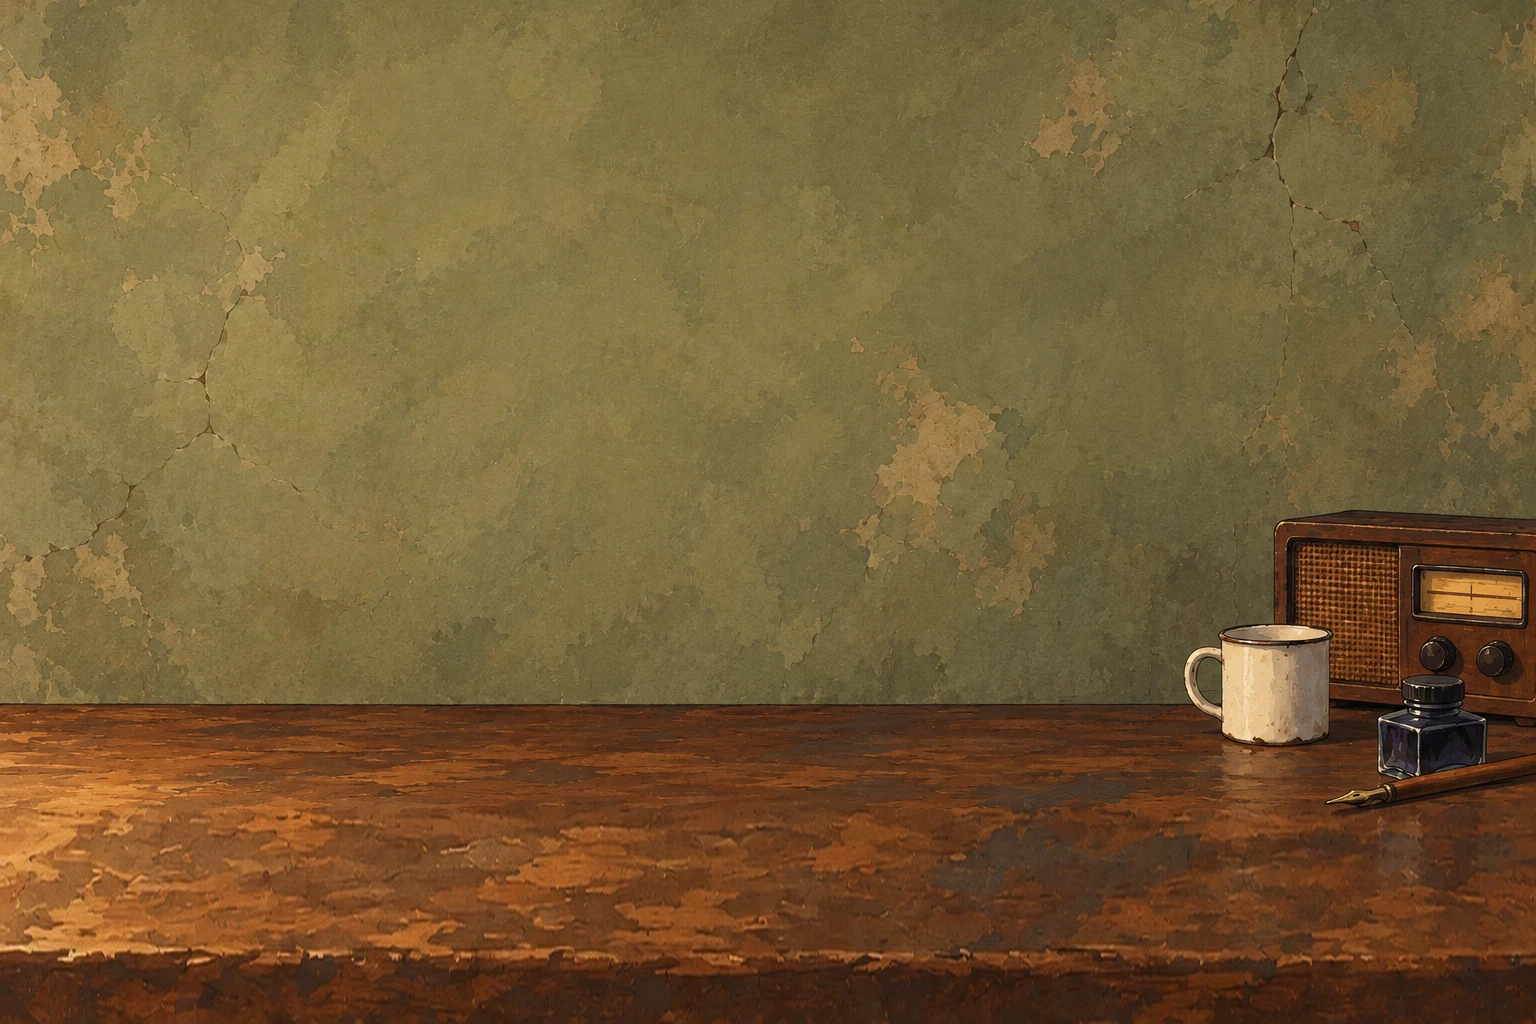
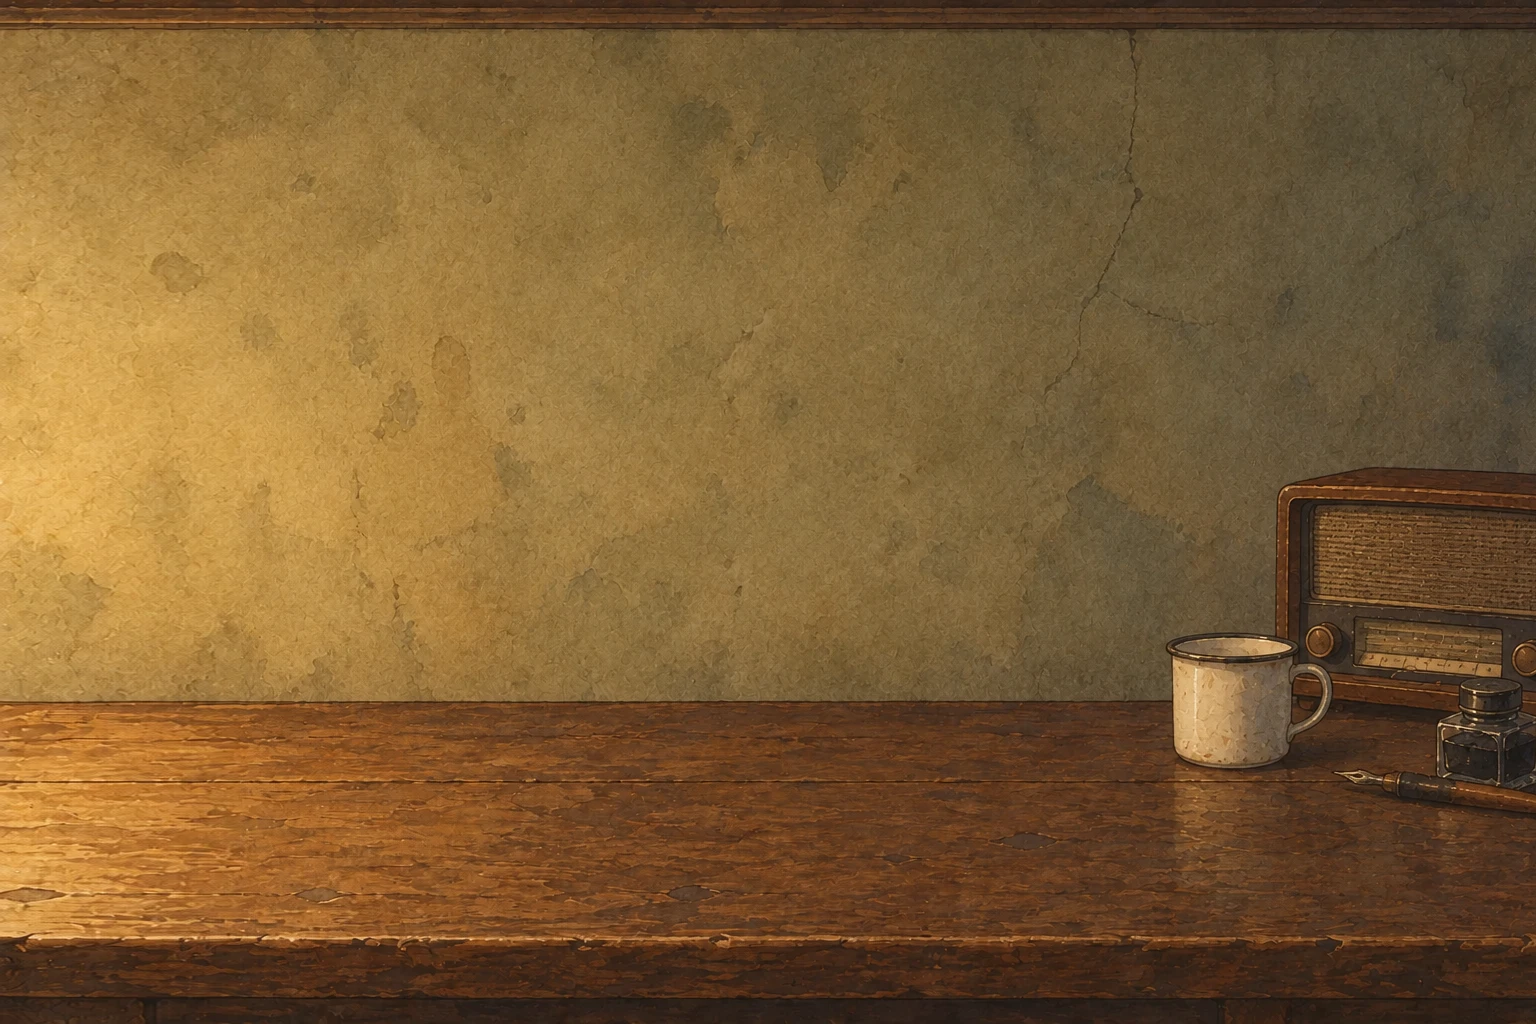
Use room-1950s v03 shifted right 80px
Claude-Session: https://claude.ai/code/session_01PsrXmJLcxyd21nqhscNtK1

diff --git a/docs/status.md b/docs/status.md
@@ -42,7 +42,7 @@
 - **진행 방식(2026-10-20 교사 요청):** 한 회차에 3장씩. Claude가 회차마다 프롬프트 3개를 코드 블록으로 채팅에 따로 정리해 주고, 교사가 ChatGPT로 그려 한꺼번에 보여 준다. 그림 하나에 프롬프트 하나는 그대로. 회차표는 `art-prompts.md` 0.4.
 - **짧은 프롬프트(2026-10-20 교사 요청):** 2회차부터 프롬프트를 짧게 준다. `[화풍 고정 v1]`은 ChatGPT 프로젝트 지침에만 두고 프롬프트에는 참조 한 줄. 제목 옆에 저장할 영어 파일 이름을 쓴다. 규칙은 `art-prompts.md` 0.5, 짧은 판은 8장.
 - **1·2회차 결과(2026-10-20, 교사가 깃허브에 직접 올림):** ⑦ 3장 창밖, ⑧ 3장 표지(밝기 보정), ⑨ 종이 결, ⑪ 1980년대 방(위로 28px) 통과. ⑩ 1950년대 방(책상 너무 높음)과 ⑫ 지금의 방(사진처럼 매끈함)은 다시 그린다. 자세한 기록은 `art-src/README.md`.
-- **⑩ 1950년대 방 v02(2026-10-20):** 이번에는 책상이 너무 낮게(y 820) 나와서 위로 120px 올려 통과.
+- **⑩ 1950년대 방(2026-10-20):** v03을 고름(책상 높이 맞음, 오른쪽으로 80px 옮김). v02는 책상이 너무 낮아 보관만 함.
 - **⑫ 지금의 방 v02(2026-10-20):** 손그림으로 나와 보정 없이 통과. 방 그림 4장 완료.
 - **다음:** 3~7회차. 짧은 프롬프트 전체는 `art-prompts.md` 8.2~8.7에 있다. 교사는 그림을 깃허브 `art-src/`에 올리고 Claude가 폴더 정리와 검수를 한다.
 - **작업 방식(2026-10-20 교사 요청):** 프롬프트 작업에는 워크플로(여러 에이전트 동시 실행)를 쓰지 않는다. 사용량을 많이 써서 한도에 걸렸다. 검사는 Claude가 직접 한다.
